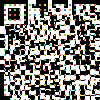
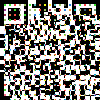
Updated canada.pymy1.png .

diff --git a/canada.py b/canada.py
@@ -49,8 +49,8 @@ moverPieza(outp,18,10,0,14)
 moverPieza(outp,19,17,0,19)
 moverPieza(outp,19,5,3,3)
 moverPieza(outp,4,14,19,19)
-moverPieza(outp,5,10,19,18)
-moverPieza(outp,5,2,19,17)
+moverPieza(outp,5,10,19,17)
+moverPieza(outp,5,2,19,18)
 
 
 for a in range(1):
